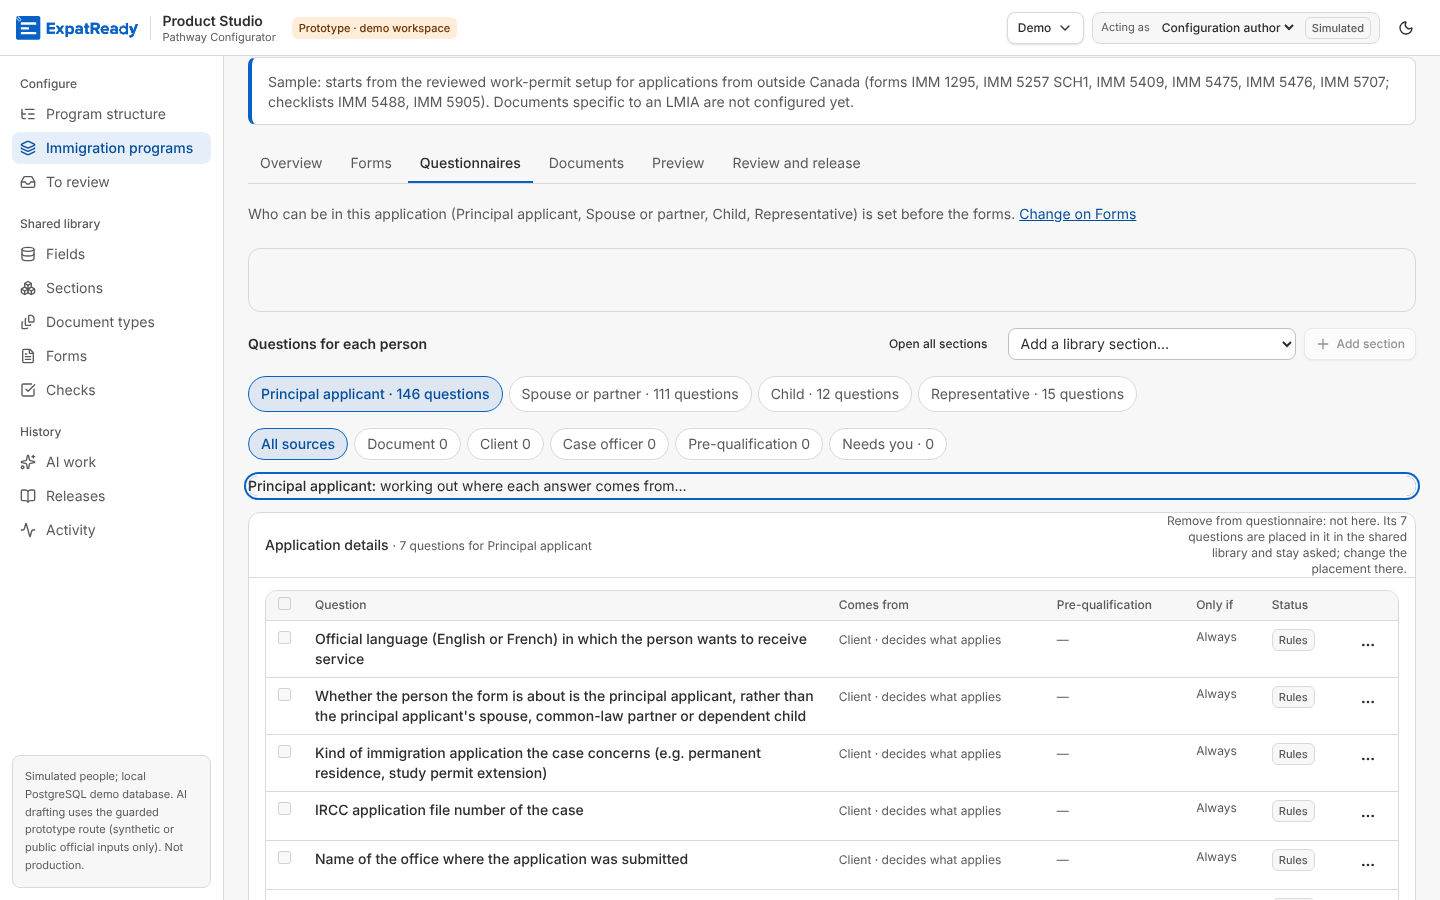
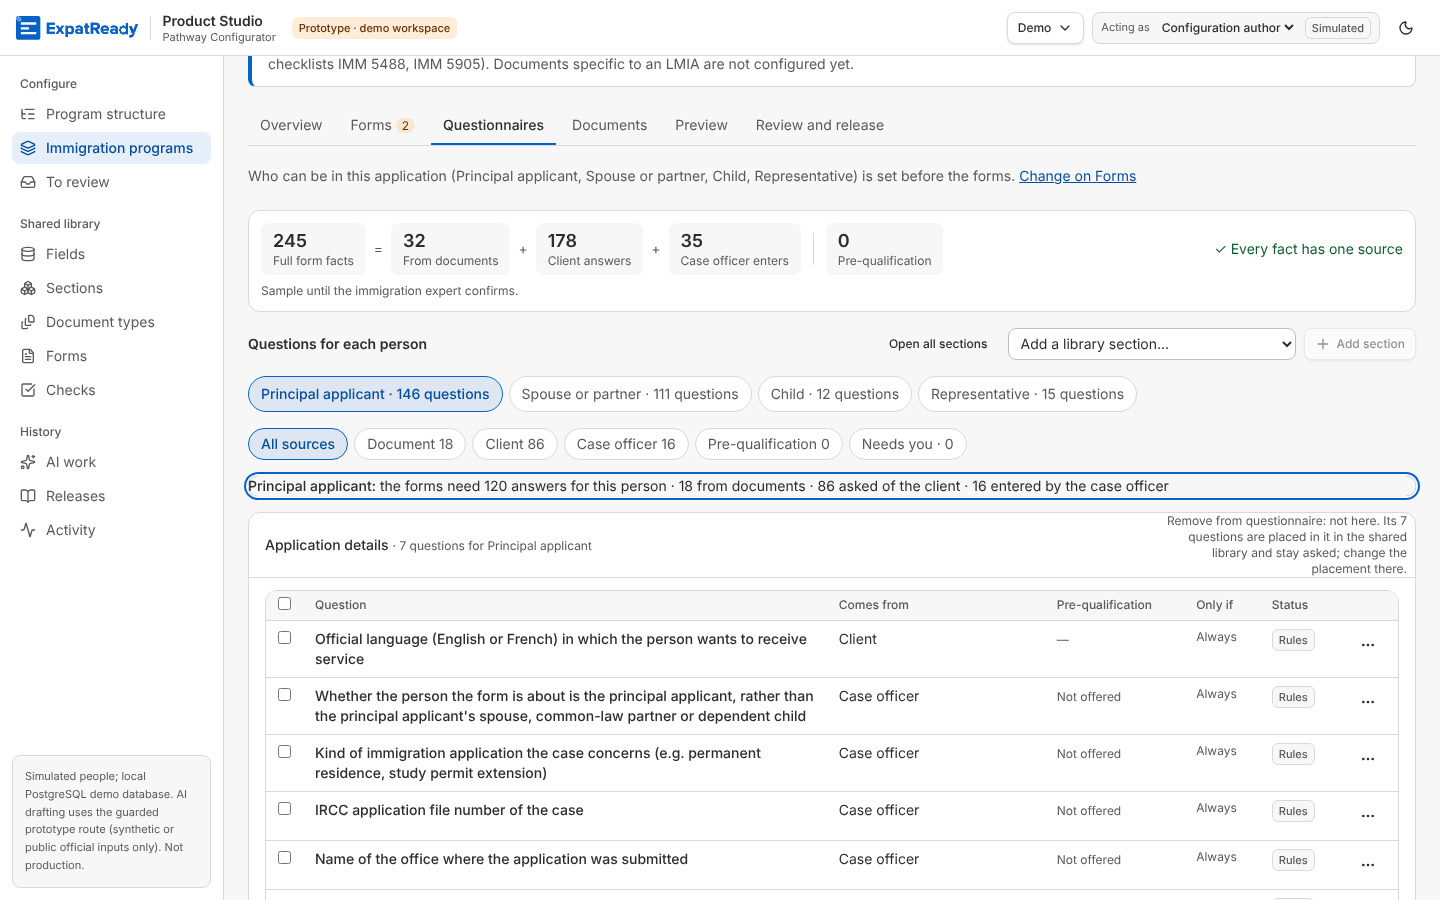
screens QA-121: review Major: each page judges only the focus keys it draws (forms:* never says done); m2-m4
Major: useFocusItem(done, owns): the miss timer starts only for a key the page draws (Before forms: pages:record,
people:card; Documents: documents:*; Questionnaires: questionnaires:*; both questions_documents:problems), so a Forms
link (forms:sources, forms:lines) never says "This was done since you opened it". New fail guard on both keys.
m2: the Questionnaires empty state shows the notice. m3: Questionnaires waits for the summary before a key counts as
gone. m4: timer ids cleared on unmount. check_x1_tabs_focus_browser 42/42. Reviewer's reports on 83628cec added.

Claude-Session: https://claude.ai/code/session_01Ln6TiPv861p8Pbjq1vQRNe

diff --git a/ai-workers/problem-1-pathway-setup-and-form-filling/prototype/studio/web/src/pages/workspace/questionnaires.tsx b/ai-workers/problem-1-pathway-setup-and-form-filling/prototype/studio/web/src/pages/workspace/questionnaires.tsx
@@ -10,7 +10,8 @@ import { useQueryClient } from "@tanstack/react-query";
 import { BookOpen, ChevronDown, Plus, Undo2, X } from "lucide-react";
 import { useQuery } from "@tanstack/react-query";
 import { type BulkSourceResult, type CountryPqrView, type FactSourceRow, type PeopleLine, type PeoplePlan, type PeopleProposal, type PeopleView, type QuestionnaireQuestion, type QuestionnairesView } from "../../../../contracts/workspace";
-import { api, ApiError, useAction, useSessionView, useToast } from "@/lib/api";
+import { api, ApiError, useAction, useApi, useSessionView, useToast } from "@/lib/api";
+import type { CombinationSummary } from "../../../../contracts/programs";
 import { Button, Dialog, Input, Notice, Panel, Pill, Select, Table } from "@/components/ui/controls";
 import { Tip } from "@/components/status";
 import { BulkBar, FactDrawer, RowMenu, RowStatus, ComesFrom, PreQual, SAY, SourceChips, SourceStrip, useFactSources, useRefreshSources, useUndoToast, type Filter } from "@/pages/workspace/sources";
@@ -260,7 +261,9 @@ function QuestionsByPerson({ id, q, available }: { id: string; q: Questionnaires
   const [shown, setShown] = React.useState<{ fact: string; q: QuestionnaireQuestion | null; section: string | null } | null>(null);
   const [filter, setFilter] = React.useState<Filter>("all");
   // X1 (slice C2): a ?focus= link from the setup checklist lands here (questionnaires:gaps, questionnaires:problems).
-  const doneSince = useFocusItem([]);
+  // Review m3: the from-release notice waits for the summary, so nothing counts as gone before it is in.
+  const sumForFocus = useApi<CombinationSummary>(["combination-summary", id], `/combinations/${id}/summary`);
+  const doneSince = useFocusItem(sumForFocus.data ? [] : undefined, (k) => k.startsWith("questionnaires:") || k === "questions_documents:problems");
   const [picked, setPicked] = React.useState<Set<string>>(new Set());
   const [refused, setRefused] = React.useState<BulkSourceResult["refused"]>([]);
   const fs = useFactSources(id);
@@ -289,6 +292,7 @@ function QuestionsByPerson({ id, q, available }: { id: string; q: Questionnaires
   ) : null;
   if (!q) return (
     <section className={cn("rounded-xl border border-border bg-surface-raised p-5", FOCUS_RING)} data-questions-empty data-focus="questionnaires:gaps">
+      <DoneSinceNotice shown={doneSince} />
       <h2 className="font-semibold">No questions yet</h2>
       <p className="mt-1 text-sm text-text-muted">The questions each person needs come from the facts their forms read. Add forms on the Forms tab, or a library section here.</p>
       <div className="mt-3">{addSection}</div>

diff --git a/ai-workers/problem-1-pathway-setup-and-form-filling/prototype/studio/web/src/components/focus-item.tsx b/ai-workers/problem-1-pathway-setup-and-form-filling/prototype/studio/web/src/components/focus-item.tsx
@@ -12,14 +12,17 @@ export const DONE_SINCE = "This was done since you opened it.";
 /** QA-121: how long a ?focus= place may take to be drawn once the tab's data is in, before it counts as gone. */
 export const MISS_AFTER_MS = 1500;
 
-/** `done`: the focus keys whose step is done by now; undefined while the checklist loads (nothing lands before it). */
-export function useFocusItem(done: string[] | undefined) {
+/** `done`: the focus keys whose step is done by now; undefined while the checklist loads (nothing lands before it).
+ *  `owns`: the keys this page draws (QA-121 review Major): only these count as gone when not on the page, so a key drawn
+ *  elsewhere on the tab, or not drawn anywhere yet (forms:*), never says "done". */
+export function useFocusItem(done: string[] | undefined, owns: (key: string) => boolean) {
   const [sp, setSp] = useSearchParams();
   const focus = sp.get("focus");
   const [doneSince, setDoneSince] = React.useState<string | null>(null);
   const timer = React.useRef<ReturnType<typeof setTimeout> | undefined>(undefined);
   const missTimer = React.useRef<ReturnType<typeof setTimeout> | undefined>(undefined);
-  React.useEffect(() => () => { clearTimeout(timer.current); clearTimeout(missTimer.current); }, []);
+  // Review m4: the ids are cleared too, so a remount (StrictMode) starts its timers again.
+  React.useEffect(() => () => { clearTimeout(timer.current); clearTimeout(missTimer.current); timer.current = undefined; missTimer.current = undefined; }, []);
   React.useEffect(() => {
     if (!focus || !done) return;
     // X1: an element may also answer a step-level key (data-focus-also, space-separated), e.g. a Not ready item's
@@ -28,7 +31,7 @@ export function useFocusItem(done: string[] | undefined) {
     if (!el) {
       // Not drawn yet: the next render tries again. QA-121: a place still not on the page after a short wait (done since
       // the link was made, or a key nothing answers) says so, on the tab, and the key leaves the address.
-      if (!missTimer.current) missTimer.current = setTimeout(() => {
+      if (owns(focus) && !missTimer.current) missTimer.current = setTimeout(() => {
         missTimer.current = undefined;
         if (document.querySelector(`[data-focus="${CSS.escape(focus)}"], [data-focus-also~="${CSS.escape(focus)}"]`)) return;
         setDoneSince(focus);

diff --git a/ai-workers/problem-1-pathway-setup-and-form-filling/prototype/studio/web/src/pages/workspace/documents.tsx b/ai-workers/problem-1-pathway-setup-and-form-filling/prototype/studio/web/src/pages/workspace/documents.tsx
@@ -49,7 +49,7 @@ export function DocumentsTab({ id }: { id: string }) {
   const [edit, setEdit] = React.useState<any>(null);
   const [error, setError] = React.useState<string | null>(null);
   // X1 (slice C2): a ?focus= link from the setup checklist lands on its place here (documents:lines, documents:problems).
-  const doneSince = useFocusItem(v.data ? [] : undefined);
+  const doneSince = useFocusItem(v.data ? [] : undefined, (k) => k.startsWith("documents:") || k === "questions_documents:problems");
   const refresh = () => { for (const k of [["checklist", id], ["config", id], ["combination", id], ["fact-sources", id], ["preview"], ["draft"]]) void qc.invalidateQueries({ queryKey: k }); };
   if (v.isPending) return <div className="h-40 animate-pulse rounded-xl border border-border bg-surface" aria-busy="true"><span className="sr-only" role="status">Loading each person's checklist</span></div>;
   if (v.error) return <Notice tone="danger" title="The checklists could not be loaded">{v.error.message} <button type="button" className="font-medium text-text-link underline" onClick={() => void v.refetch()}>Retry</button></Notice>;

diff --git a/ai-workers/problem-1-pathway-setup-and-form-filling/prototype/studio/web/src/components/before-forms.tsx b/ai-workers/problem-1-pathway-setup-and-form-filling/prototype/studio/web/src/components/before-forms.tsx
@@ -24,7 +24,7 @@ function Mark({ state }: { state: keyof typeof MARK }) {
 export function BeforeForms({ id, people }: { id: string; people: PeopleView }) {
   const sum = useApi<CombinationSummary>(["combination-summary", id], `/combinations/${id}/summary`);
   const steps = sum.data?.setup?.steps;
-  const doneSince = useFocusItem(steps ? [steps[0].state === "done" ? "pages:record" : "", steps[1].state === "done" ? "people:card" : ""].filter(Boolean) : undefined);
+  const doneSince = useFocusItem(steps ? [steps[0].state === "done" ? "pages:record" : "", steps[1].state === "done" ? "people:card" : ""].filter(Boolean) : undefined, (k) => k === "pages:record" || k === "people:card");
   const [pages, who] = [steps?.[0], steps?.[1]];
   return (
     <section aria-labelledby="before-forms" className="space-y-3 rounded-xl border border-border bg-surface p-4" data-before-forms>

diff --git a/ai-workers/problem-1-pathway-setup-and-form-filling/product/screens/F1-setup/review-qa120-121.md b/ai-workers/problem-1-pathway-setup-and-form-filling/product/screens/F1-setup/review-qa120-121.md
@@ -1,0 +1,63 @@
+# Review: QA-120 and QA-121, combination tab counts and a `?focus=` place that is gone (commit 83628cec)
+
+**Reviewer.** I did not build this. **Scope:** `048330ac` (the code: `combination.tsx`, `focus-item.tsx`, `documents.tsx`, `questionnaires.tsx`, `check_x1_tabs_focus_browser.cjs`). On top of that, `83628cec` only adds rewritten screenshots; I checked that it has no code change. Rows QA-120 and QA-121 are in `product/qa/BUGS.md`.
+**Design sources:** W1 setup checklist `plan.md:78` ("This was done since you opened it." shows only when that line's step is done), concept v4 §7, EXPERIENCE #10, STANDARDS (accessibility).
+**Environment:** isolated copy `screens_x1` on port 4442 (`xr_studio_screens_x1`), with the sample loaded and `web/dist` built after the source change. Headless Chromium. No model call (US$0). My probe script is `/tmp/rv/probe.cjs` (not committed) and its screenshots are in `/tmp/rv/shots/`. I restored the suite screenshots that my reruns rewrote.
+
+**Verdict: Block** (Ship after fixes): one Major finding. QA-120 is done well. QA-121 shows a false "done" on the Forms tab.
+
+## Suites rerun on this code (port 4442)
+* `check_x1_tabs_focus_browser`: **39/39** passed, not the 40/40 in the hand-off. No step failed. The count is 39 because one guarded setup step (`setup: the sample loads`) only runs on an empty database.
+* `check_w1_before_forms_browser`: 23/23 passed.
+* Graph: G1 0 · G2 0 · G3 1 · G4–G6 0. This diff adds no page and no route.
+
+## QA-120 (tab counts): met
+* There is now one `StepBadge` (`combination.tsx:177`) with the same shape for both counts, coloured warn or danger, with a space before each count. The tab with nothing to count keeps its plain name and has no tip.
+* The tab names read in the browser at 1024 px and at 200 % zoom, with no sideways scroll:
+  * "Forms 4 setup items open"
+  * "Documents 1 setup item open"
+  * "Review and release 1 problem"
+* Keyboard Tab reaches all six tabs with those names. axe on the Overview finds 0 violations.
+* **The choice of no comma is right.** WCAG 2.5.3 asks that the name contain the visible label, and best practice is to start with it. The visible text is "Review and release 1", and "Review and release 1 problem" contains it unbroken. "Review and release, 1 problem" would split it, so a voice user saying "click Review and release 1" could miss. A screen reader pauses at the badge in either case. This version is better than the one QA asked for. QA-120 can close with a note to the QA lane.
+* The "one badge style" test (`check_x1…:67`) removes the colour classes and compares what is left, so it would catch a shape change. Good.
+
+## QA-121 (`?focus=` place gone): findings
+1. **Major (Must): a false "This was done since you opened it" on the Forms tab, for items that are still open.**
+   * **Repro:** Super visa, Overview strip. Click "Add 1 form found" (`/forms?focus=forms:sources`) or "Map 1 form" (`forms:lines`). After 1.5 s, Before forms says "This was done since you opened it. Nothing waits there now; the next step is on the card." Both items are still open, and the badge still says Forms 4. Screenshot: `/tmp/rv/shots/forms-false-done-since-1440.png`.
+   * **Cause:** `before-forms.tsx:27` is the only `useFocusItem` on the Forms tab. No element there answers the `forms:*` keys (`grep data-focus`: only `pages:record` and `people:card`). The new miss timer (`focus-item.tsx:28-37`) therefore treats every `forms:*` key the engine emits (`forms:finder`, `forms:sources`, `forms:lines`, `forms:problems`, `forms:held`; `itemHref` sends all of them to Forms) as gone.
+   * **Why it matters:** the item had landed nowhere since C1, which an earlier review recorded. It now says something false, on the main path from the strip. That breaks `plan.md:78` and the bug's own expected result ("say it was done" only when it was).
+   * **Fix:** a hook should judge only the keys it owns. For example, use `useFocusItem(done, owns)`, where `owns` for Before forms is `pages:record` and `people:card`; for Documents it is `documents:*` and `questions_documents:problems`; for Questionnaires it is `questionnaires:*` and `questions_documents:problems`. Arm the miss timer only for an owned key.
+   * **Test to add:** "`?focus=forms:sources` on Super visa shows no done-since notice and breaks nothing". Today no step covers it, so the rule's test would not fail if the rule were removed.
+2. **Minor (Should): the Questionnaires empty state drops the key silently.** In `questionnaires.tsx:290-296`, the `!q` return has no `<DoneSinceNotice>`. A `questionnaires:problems` key that misses there is cleared from the address and nothing is said. This is the QA-121 symptom again, though rarer. Fix: add the notice, as `documents.tsx:62` does.
+3. **Minor (Should): a direct link can give a false "done" when the summary is slow.**
+   * `PartProblems`' Not ready branch (`part-problems.tsx:20-21`) waits for `combination-summary`. On Questionnaires the hook is armed with `[]` as soon as `q` is in, and `q` comes from the combination view, not from the summary.
+   * So a reloaded or shared `?focus=questionnaires:problems` (from release) says "done" if the summary arrives more than 1.5 s after the view. That happens with the summary at 59 ms locally only under throttling.
+   * Fix: pass `sum.data ? [] : undefined` (the parent already has the query), or start the wait once both queries are settled.
+4. **Minor (Should): under React StrictMode, the miss wait never re-arms in `vite dev`.**
+   * The unmount cleanup (`focus-item.tsx:22`) clears `missTimer.current` but leaves its id in place. StrictMode's remount keeps the ref, so `if (!missTimer.current)` stays false.
+   * The production build is not affected (the probe and suites use `dist`). Fix: set `missTimer.current = undefined` in the cleanup.
+5. **Minor (Should): the tab tip is a native `title`.** It does not open on keyboard focus or touch (EXPERIENCE #10). The words are in the accessible name, so screen-reader users get them, but sighted keyboard users see only "Forms 4". The `Tip` component would meet the rule. This is borderline; record it if you keep `title`.
+
+**What held:**
+* Double timers: the ref guard and the clear on landing keep it to one timer.
+* Slow loads on Documents and in Before forms: with the summary delayed 3 s, `documents:lines` and `people:card` still landed with no notice, because Before forms passes `undefined` until its steps load.
+* A wrong key on Documents shows the notice, has no axe violation and clears the address. A reload does not repeat the notice.
+* No page errors.
+
+## D scores (only those this diff touches; the others are unchanged by it)
+* D1 Requirement fit: 3. QA-120 is met. QA-121 is met on Documents and Questionnaires but breaks `plan.md:78` on Forms.
+* D10 Language: 4. Plain words; the tip is mouse-only.
+* D11 Feedback and state: 2. The state on the Forms tab is false.
+* D12 Visual: 5. One badge.
+* D13 Accessibility and responsive: 4. Names, keyboard, axe, 1024 px and 200 % all pass; the tip is a native title.
+* D16 Testability: 3. The rule "only when done" has no failing test for Forms.
+* D17 and D20: simulated only.
+
+## Journey score (one per check): 8/10
+The details are in `journey-test-reviewer-2026-11-01-qa120-121.md`. The score is 8 by number, but the Major finding above blocks the verdict.
+
+## Could not check
+* A real screen reader, or voice control speaking "click Review and release 1".
+* An intended user's unaided walk (D17/D20 stay with the founder).
+
+**Block.** To fix: Major 1 (owned keys, plus a Forms test). Minors 2–5 should be fixed or recorded in the PR.

diff --git a/ai-workers/problem-1-pathway-setup-and-form-filling/product/screens/F1-setup/journey-test-reviewer-2026-11-01-qa120-121.md b/ai-workers/problem-1-pathway-setup-and-form-filling/product/screens/F1-setup/journey-test-reviewer-2026-11-01-qa120-121.md
@@ -1,0 +1,53 @@
+# Journey test, reviewer: QA-120 and QA-121 (83628cec, code from 048330ac, 1 Nov)
+
+* **Setup:** isolated copy `screens_x1` on port 4442, sample loaded, headless Chromium (`/opt/pw-browsers/chromium`). No model call (US$0).
+* **Walk script:** `/tmp/rv/probe.cjs`, not committed. Screenshots are in `/tmp/rv/shots/`.
+* **Suites replayed:** `check_x1_tabs_focus_browser` (39/39) and `check_w1_before_forms_browser` (23/23).
+
+## Journeys
+1. **Main path. Configuration author, Super visa. Goal: "which tabs have work, and how much?"**
+   * The tabs read "Forms 4", "Documents 1" and "Review and release 1", with one badge shape and a space before each count.
+   * Hovering shows the same words as the screen reader: "Review and release 1 problem".
+   * **Held.**
+2. **Keyboard only.**
+   * Tab reaches all six tabs, named in words.
+   * **Finding (minor):** the tip is a native title, so it never shows on focus.
+3. **1024 px, then 200 % zoom.** No sideways scroll, and the tab row keeps every name. axe on the Overview: 0 violations. **Held.**
+4. **Alternate. Author follows "Add 1 form found" from the Overview strip.**
+   * It lands on Forms and, after 1.5 s, says "This was done since you opened it. Nothing waits there now". But that form is still waiting to be added.
+   * "Map 1 form" does the same.
+   * **Fails: Major.** Screenshot: `forms-false-done-since-1440.png`.
+5. **Recovery. A stale link (`?focus=documents:gone`).**
+   * Documents says the place was done since, the key leaves the address, and a reload does not repeat it.
+   * **Held.**
+6. **Slow load. Summary delayed 3 s, direct link `?focus=documents:lines`, then `forms?focus=people:card`.**
+   * Both land, with no false notice.
+   * **Held.** By code reading, a Not ready `questionnaires:problems` link could show a false "done" if the summary is more than 1.5 s late (minor).
+7. **Empty state. Questionnaires with no questions and a missed key.**
+   * By code: the key is cleared silently and no notice is shown (minor; not walked, because the sample has no such combination with a problem).
+
+## Data underneath
+These changes are display only: no write and no route. The tab counts match `tabCounts(summary.setup)`, and the problem count matches the draft's error problems (the suite checks both).
+
+## Score
+| Criterion | Score | Evidence |
+|---|---|---|
+| Task completed | 1 | J1, J5: the counts and the stale-link notice work |
+| Next step obvious | ½ | J4: "Nothing waits there now" while a form waits |
+| Plain words | 1 | "1 setup item open", "1 problem" |
+| Feedback and state | ½ | J4: a false done state on Forms |
+| Correct data | 1 | Counts equal the engine's; nothing written |
+| Error recovery | 1 | J5: a wrong key is answered and cleared, with no repeat on reload |
+| Accessibility and screen sizes | ½ | axe 0, keyboard names, 1024 px and 200 % pass; the tip is mouse-only |
+| Speed | 1 | Landing is immediate; the 1.5 s wait applies only to a missing place |
+| Visual quality | 1 | One badge style, danger told apart by colour only |
+| Trust and sources | 1 | No AI or source content in this change |
+
+**8/10, no 0: a pass by number.** The verdict in `review-qa120-121.md` is still **Block**, because of the Major finding in J4.
+**Fixes that would raise the score, most valuable first:**
+1. Judge only the hook's own keys, so Forms never says a false done (lifts next step and feedback).
+2. Use `Tip` instead of `title` (lifts accessibility).
+
+**Not tested:**
+* A real screen reader, or voice control.
+* An intended user's unaided walk (D17/D20 stay with the founder).
